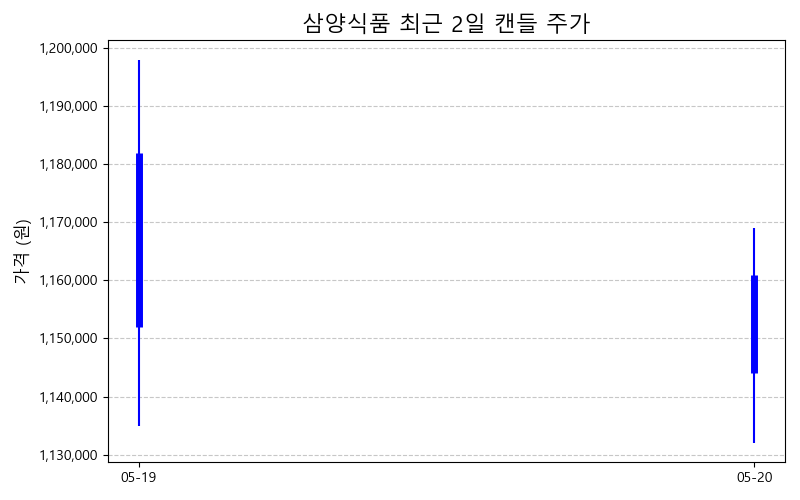
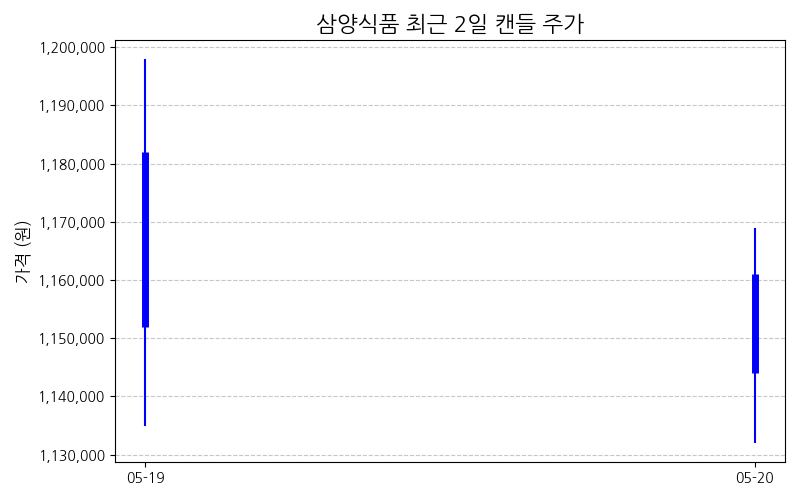
20250521-2

diff --git a/app.py b/app.py
@@ -6,6 +6,7 @@ import matplotlib.pyplot as plt
 import pandas as pd
 import numpy as np
 import matplotlib
+import matplotlib.font_manager as fm # <- 추가
 
 app = Flask(__name__)
 
@@ -16,8 +17,24 @@ if not os.path.exists(CHART_IMAGE_FOLDER):
     os.makedirs(CHART_IMAGE_FOLDER)
 app.config['CHART_IMAGE_FOLDER'] = CHART_IMAGE_FOLDER
 
-plt.rcParams['font.family'] = 'Malgun Gothic'
+# --- 폰트 설정 부분 수정 (여기만 변경하면 됩니다) ---
+# 폰트 파일 경로 지정: Flask 앱의 루트 경로를 기준으로 static/fonts 폴더 내 폰트 파일 지정
+FONT_PATH = os.path.join(app.root_path, 'static', 'fonts', 'NanumGothic.ttf')
+
+# 폰트 매니저에 폰트 추가 및 설정
+if os.path.exists(FONT_PATH):
+    fm.fontManager.addfont(FONT_PATH)
+    plt.rcParams['font.family'] = 'NanumGothic' # 폰트 파일명에서 확장자를 제외한 이름 (폰트 속성 이름)
+    print(f"DEBUG: Matplotlib font set to NanumGothic from {FONT_PATH}")
+else:
+    print(f"WARNING: NanumGothic.ttf not found at {FONT_PATH}. Hanja/Hangul may not display correctly.")
+    # 대체 폰트 또는 기본 폰트 사용 (한글 깨질 가능성 높음)
+    plt.rcParams['font.family'] = 'sans-serif' 
+
 plt.rcParams['axes.unicode_minus'] = False
+# --- 폰트 설정 부분 수정 끝 ---
+
+# ... (나머지 app.py 코드는 동일) ...
 
 
 def plot_ohlcv_chart(df, stock_name, image_filename):
